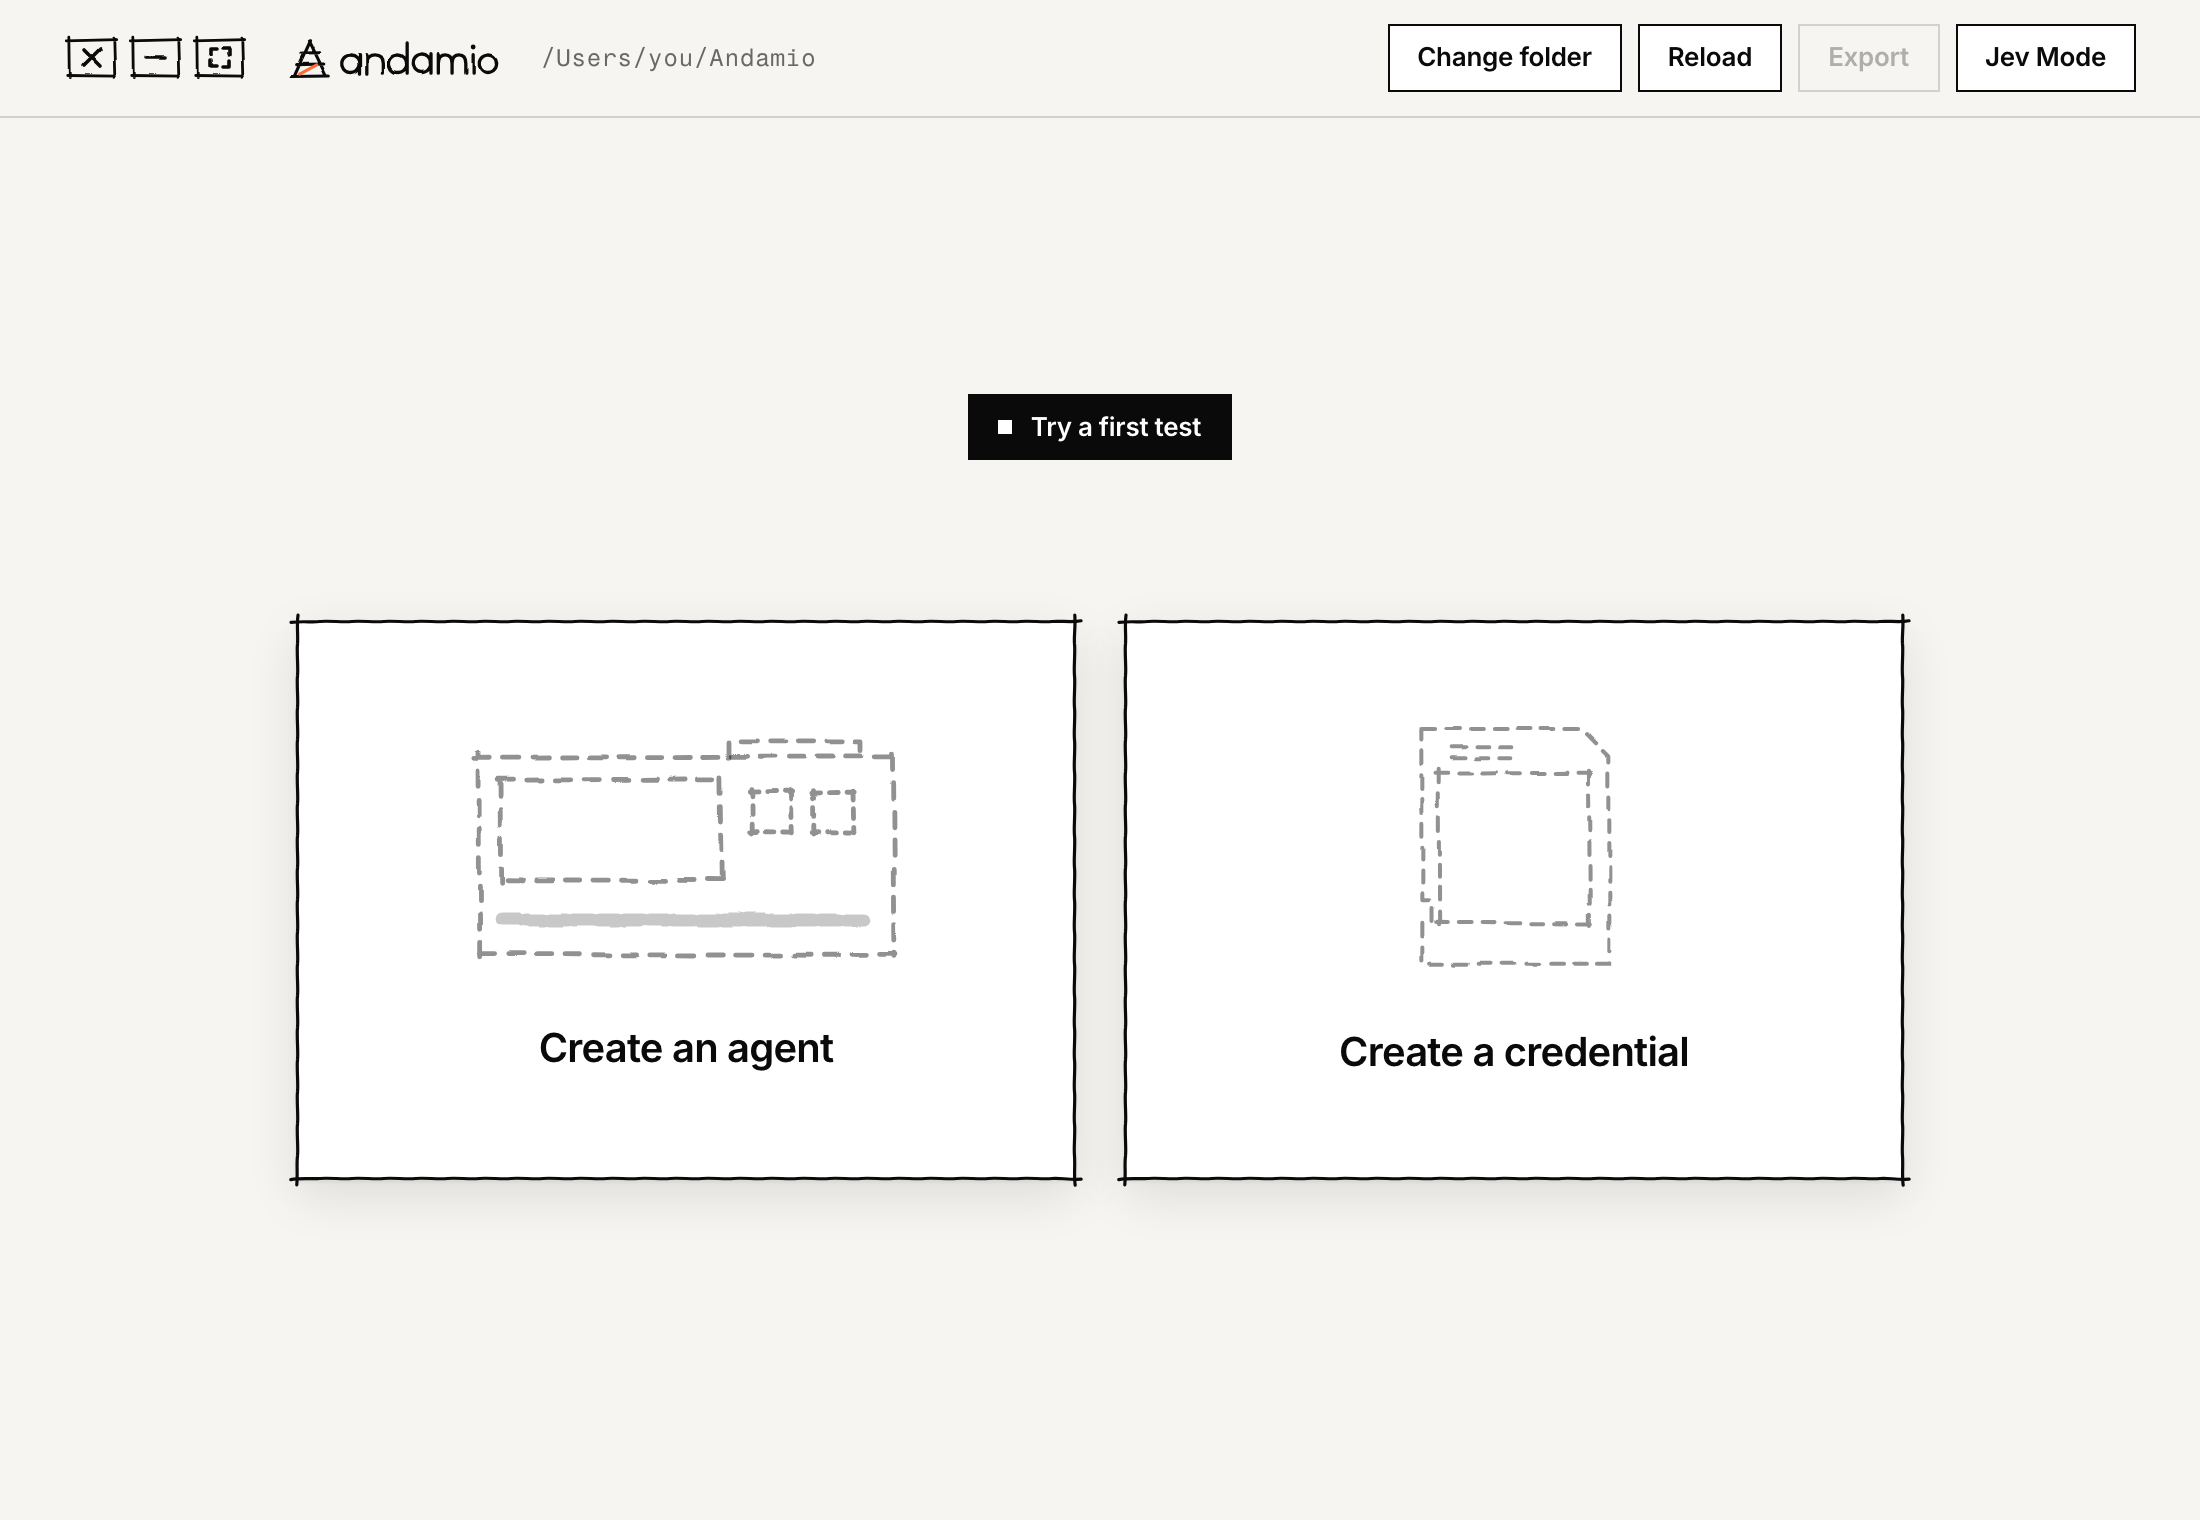
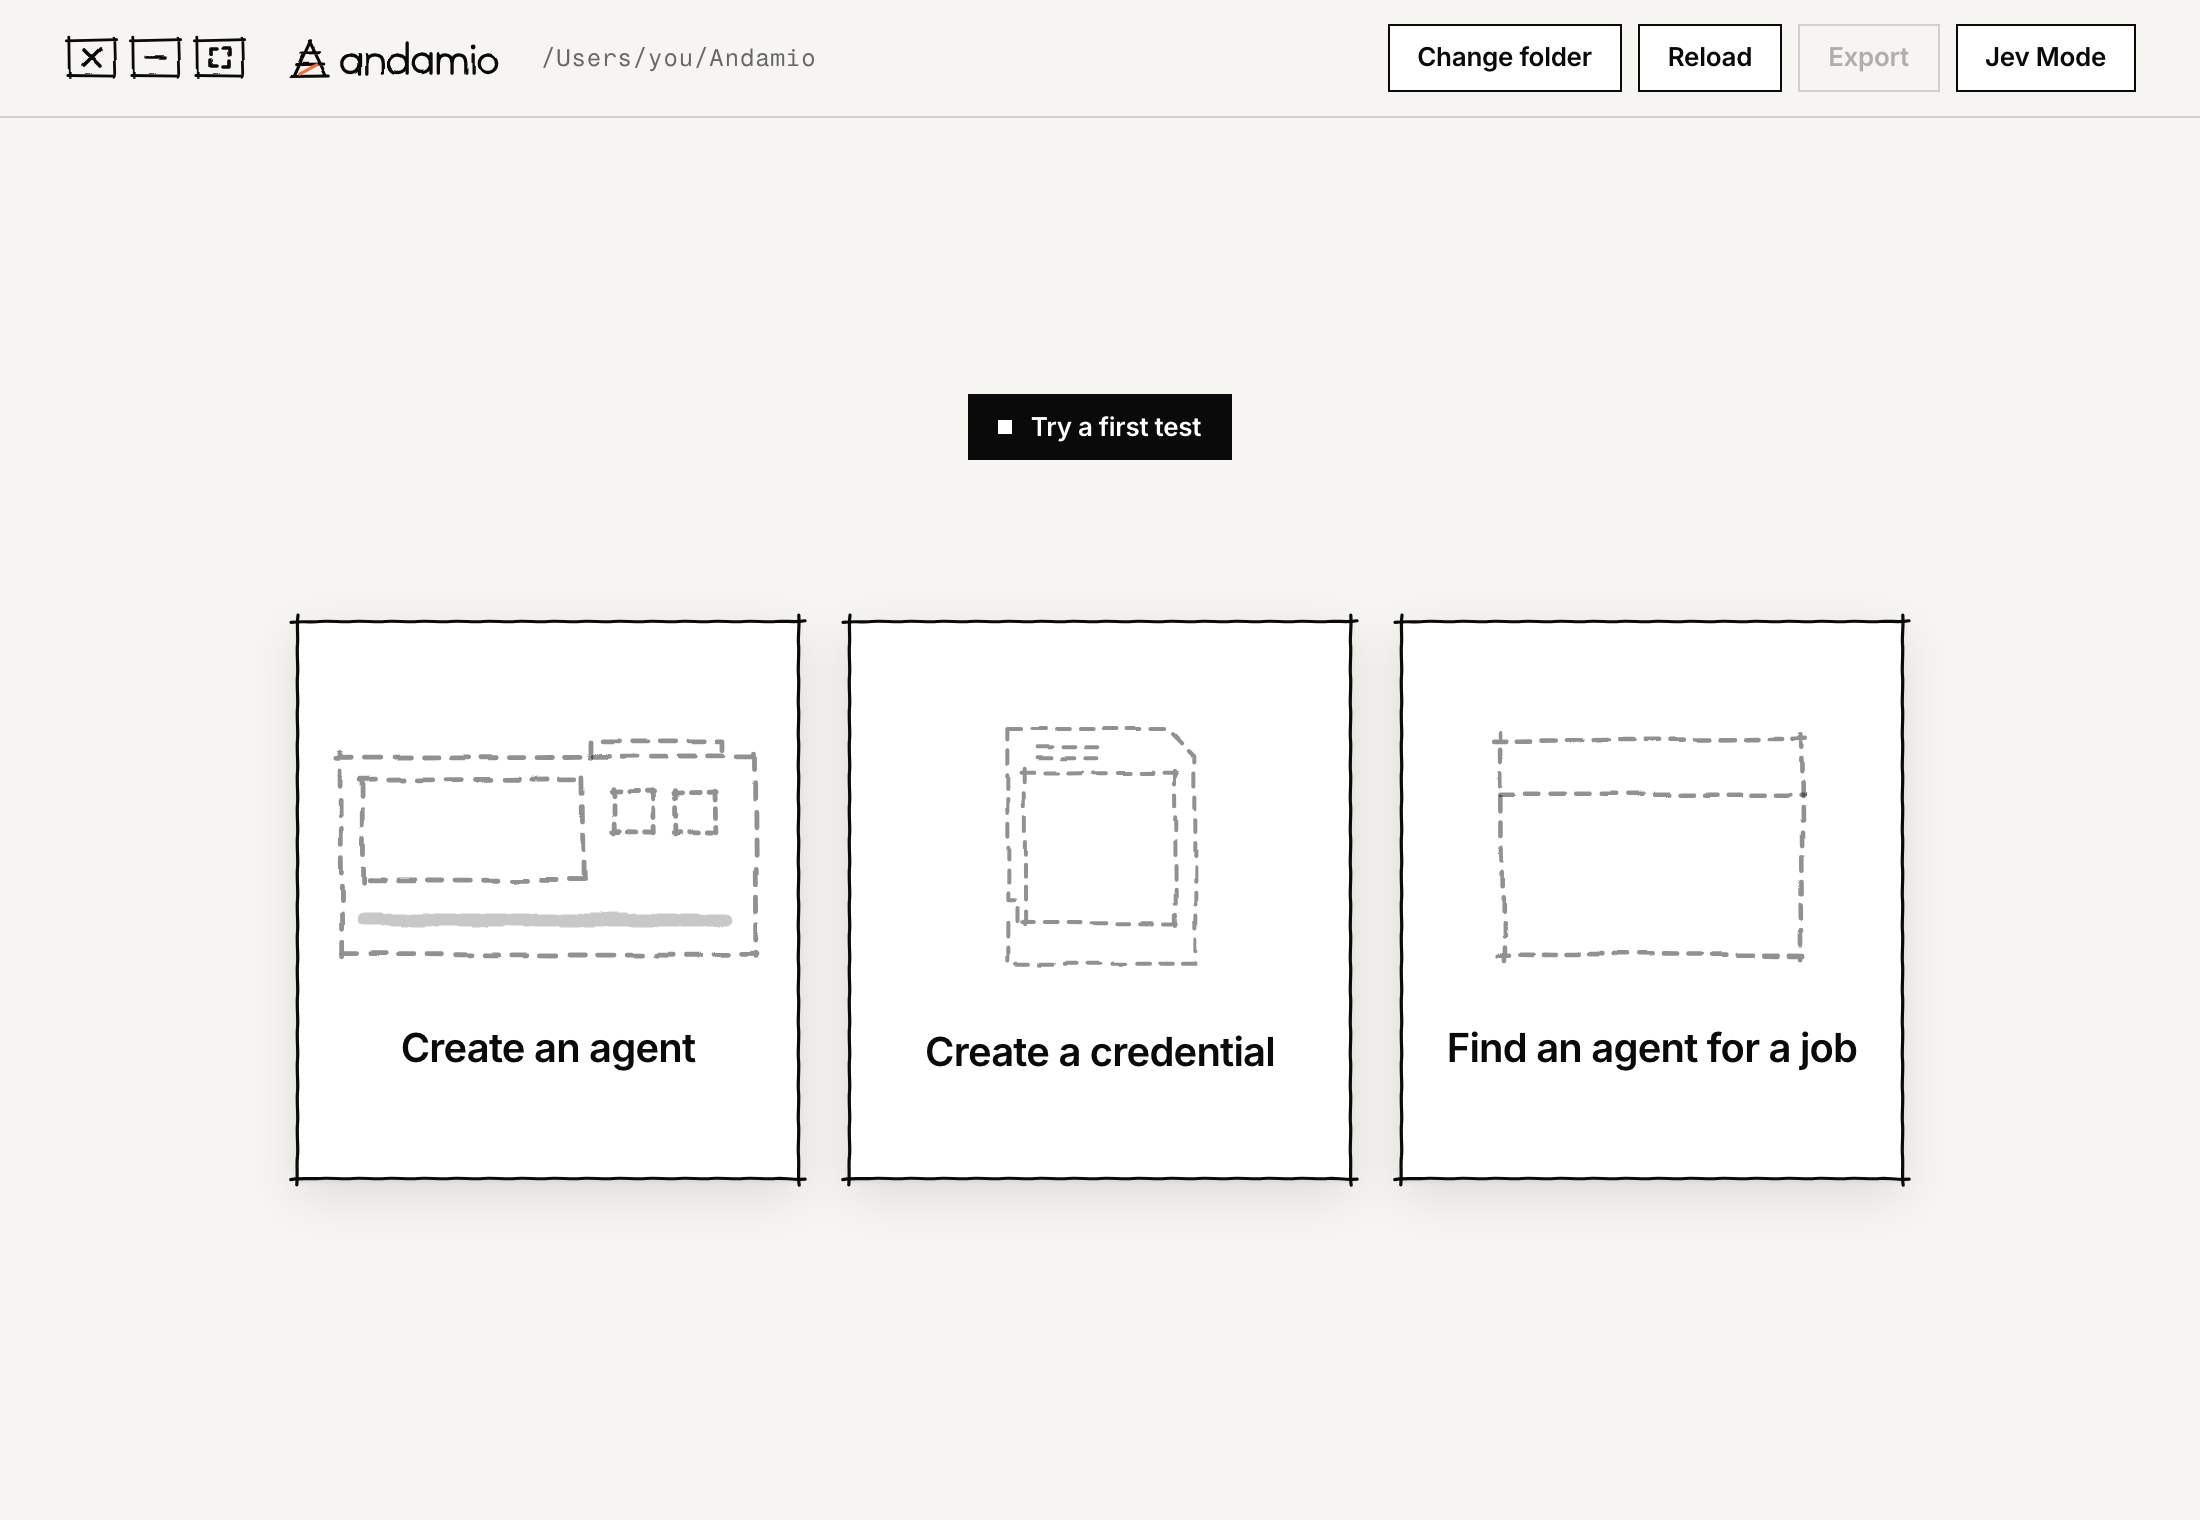
test(shots): picture the router's door, ask, card and the cost order, and reshoot home

Changed region(s): [[0.1545, 0.402, 0.8655, 0.773]]

diff --git a/src/shots/shots.ts b/src/shots/shots.ts
@@ -90,8 +90,9 @@ export interface Shot {
   steps?: readonly Step[];
   /**
    * What Jev answers every ask, as a chance by question id: `p1`… for rubric points,
-   * `overall`, `t1`… for learning targets. An id left out gets FakeJev's default, 0.5,
-   * which reads as can't call. Only with Jev Mode on.
+   * `overall`, `t1`… for learning targets, `m1`… for a routing ask's badges in the sample's
+   * order. An id left out gets FakeJev's default, 0.5, which reads as can't call, or no
+   * match. Only with Jev Mode on.
    */
   jevAnswers?: Readonly<Record<string, number>>;
 }
@@ -132,6 +133,11 @@ const CODEX_HOW_SURE = { profileSlug: CODEX, fileStem: "20260925T100500Z" };
 const CLAUDE_HOW_SURE = { profileSlug: CLAUDE, fileStem: "20260926T164500Z" };
 /** Write a release note's own handoff, A, its default. */
 const RELEASE_NOTE_HANDOFF = "20260928T090000Z";
+
+/** The job the router's pictures paste (router KTD15), as someone would hand it to an agent. */
+const ROUTER_JOB = `Go through the answers to this week's support quiz and say how sure you are of each one.
+
+Mark any answer you would want a second person to check before we publish it.`;
 
 /** How to's test: Claude Code takes Write a release note, which opens at "Hand it over". */
 const RELEASE_TEST: Route = { view: "deck", deck: "test", profileSlug: CLAUDE, credentialKey: RELEASE_NOTE };
@@ -717,6 +723,50 @@ export const SHOTS: readonly Shot[] = [
     expect: { text: "Its handoff is pulled with no result." },
     clip: { selector: ".deck-card", pad: 16 },
   },
+  {
+    // The router (router KTD15): Home's third door, beside the other two.
+    id: "router-door",
+    page: "how-to/find-an-agent-for-a-job",
+    route: { view: "home" },
+    seed: "full",
+    jev: "off",
+    expect: { text: "Find an agent for a job" },
+    clip: { selector: ".doors", pad: 0 },
+  },
+  {
+    // The ask card says what goes before anything is sent, so it needs no answer from Jev.
+    id: "router-ask",
+    page: "how-to/find-an-agent-for-a-job",
+    route: { view: "deck", deck: "router" },
+    seed: "full",
+    jev: "on",
+    expect: { text: "Ask Jev which badge it's like" },
+    steps: [{ paste: ROUTER_JOB }, { click: { button: "Next" } }, { waitFor: { text: "Ask Jev which badge it's like" } }],
+    clip: { selector: ".deck", pad: 8 },
+  },
+  {
+    // Jev matches the job to Say how sure you are, the sample's second badge, so its question
+    // is m2, with Check an answer key (m3) as also like. Claude Code is its go-to.
+    id: "router-card",
+    page: "how-to/find-an-agent-for-a-job",
+    route: { view: "deck", deck: "router" },
+    seed: "full",
+    jev: "on",
+    jevAnswers: { m1: 0.12, m2: 0.93, m3: 0.74, m4: 0.08 },
+    expect: { text: "Go-to for Say how sure you are" },
+    steps: [{ paste: ROUTER_JOB }, { click: { button: "Next" } }, { click: { button: "Ask Jev" } }, { waitFor: { text: "Go-to for Say how sure you are" } }],
+    clip: { selector: ".deck", pad: 8 },
+  },
+  {
+    // The cost order, opened from Home's agent list: Codex first, as the sample folder sets it.
+    id: "cost-order",
+    page: "how-to/find-an-agent-for-a-job",
+    route: { view: "deck", deck: "cost-order" },
+    seed: "full",
+    jev: "off",
+    expect: { text: "Cheapest first" },
+    clip: { selector: ".deck-card", pad: 16 },
+  },
 ];
 
 /** Marks a route kind no shot pictures yet. */
@@ -736,7 +786,7 @@ export function routeKind(route: Route | "gate"): RouteKind {
 /** For each route kind, the shots that picture it, or NOT_PICTURED. Every shot is listed under its own kind. */
 export const COVERAGE: Record<RouteKind, readonly string[] | typeof NOT_PICTURED> = {
   gate: ["first-run"],
-  home: ["home-empty", "home", "home-needs"],
+  home: ["home-empty", "home", "home-needs", "router-door"],
   "deck:credential": ["credential-start", "credential-target"],
   "deck:agent": ["first-test-agent", "first-test-hand", "first-test-judge", "first-test-home", "agent-new"],
   "deck:test": ["test-hand", "test-reply", "judge", "go-to-offer", "missed-points", "held", "jev-ask", "jev-cleanup", "jev-sends", "jev-calls", "jev-record", "jev-reason"],
@@ -746,8 +796,8 @@ export const COVERAGE: Record<RouteKind, readonly string[] | typeof NOT_PICTURED
   "deck:edit-handoff": ["handoff-edit"],
   "deck:trash": ["trash-badge", "trash-agent"],
   "deck:jev": ["jev-off", "jev-on"],
-  "deck:router": NOT_PICTURED,
-  "deck:cost-order": NOT_PICTURED,
+  "deck:router": ["router-ask", "router-card"],
+  "deck:cost-order": ["cost-order"],
   "item:badge": ["badge-replies", "badge-page", "go-to-badge"],
   "item:agent": ["agent-page"],
   // A handoff opens as its own item only once two or more have results; the sample's has none.

diff --git a/src/shots/seed.ts b/src/shots/seed.ts
@@ -17,6 +17,7 @@
 // copied rather than imported, since that file imports @testing-library/react.
 
 import {
+  COST_ORDER_PATH,
   MARKER_PATH,
   assessmentPath,
   collectionPath,
@@ -27,6 +28,7 @@ import {
   profilePath,
   serializeAssessment,
   serializeCollection,
+  serializeCostOrder,
   serializeHeld,
   serializeMark,
   serializeMarker,
@@ -506,6 +508,8 @@ export async function sampleFolder(variant: SeedVariant): Promise<SampleFolder> 
   files[collectionPath(collection.slug)] = serializeCollection(collection);
   for (const c of credentials) files[credentialPath(c.collectionSlug, c.slug)] = serializeCredentialMd(c);
   for (const p of [CLAUDE, CODEX]) files[profilePath(p.slug)] = serializeProfile(p);
+  // Codex is the cheaper of the two (router KTD15), so home lists it first.
+  files[COST_ORDER_PATH] = serializeCostOrder([CODEX.slug, CLAUDE.slug]);
   files[handoffPath(SAMPLE.collection, RELEASE_NOTE.slug, SAMPLE.handoffs.releaseNote)] = RELEASE_NOTE_HANDOFF;
 
   const answerKeyTake = await take(CODEX, answerKey, SAMPLE.takes.codexAnswerKey, {

diff --git a/src/App.css b/src/App.css
@@ -1258,6 +1258,13 @@ button:focus-visible {
   letter-spacing: var(--heading-tracking);
 }
 
+/* The job door's empty handoff card is drawn from a card a third the width of the others,
+   so its line and dashes are thinned to the other two doors' weight (router KTD13). */
+.door .cast-outline-handoff g {
+  stroke-width: 0.9;
+  stroke-dasharray: 2.6 2.2;
+}
+
 /* A little lift under the pointer, where motion is welcome. */
 @media (prefers-reduced-motion: no-preference) {
   .door,

diff --git a/src/shots/shots.test.ts b/src/shots/shots.test.ts
@@ -140,7 +140,7 @@ describe("the shot manifest", () => {
       if (!shot.jevAnswers) continue;
       expect(shot.jev, shot.id).toBe("on");
       for (const [id, p] of Object.entries(shot.jevAnswers)) {
-        expect(id, shot.id).toMatch(/^(?:overall|[pt][1-9]\d*)$/);
+        expect(id, shot.id).toMatch(/^(?:overall|[ptm][1-9]\d*)$/);
         expect(p >= 0 && p <= 1, `${shot.id}: ${id}`).toBe(true);
       }
     }
